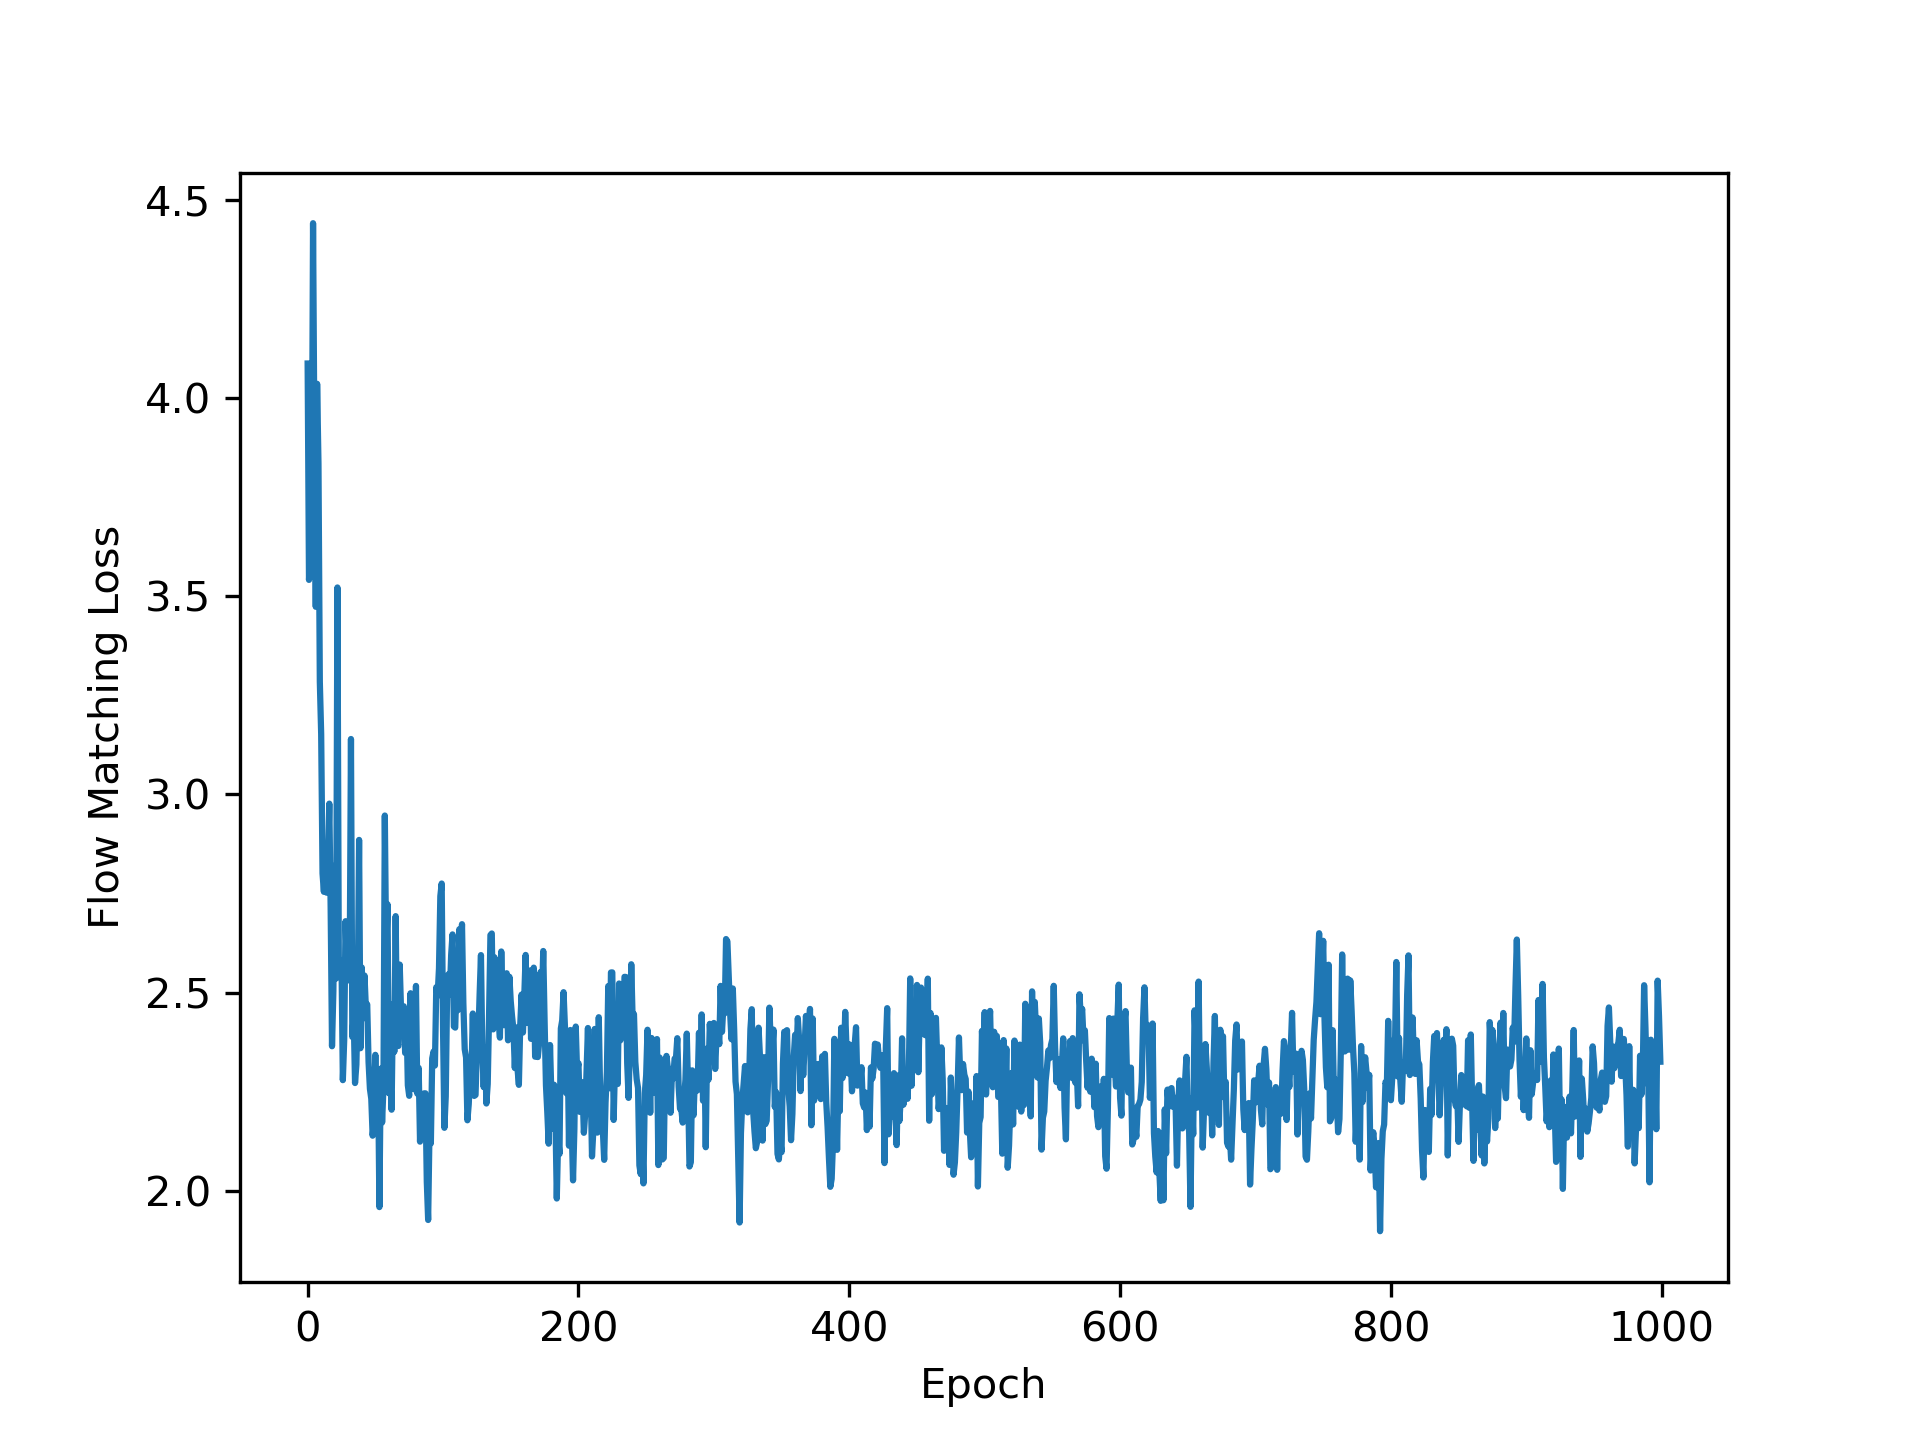
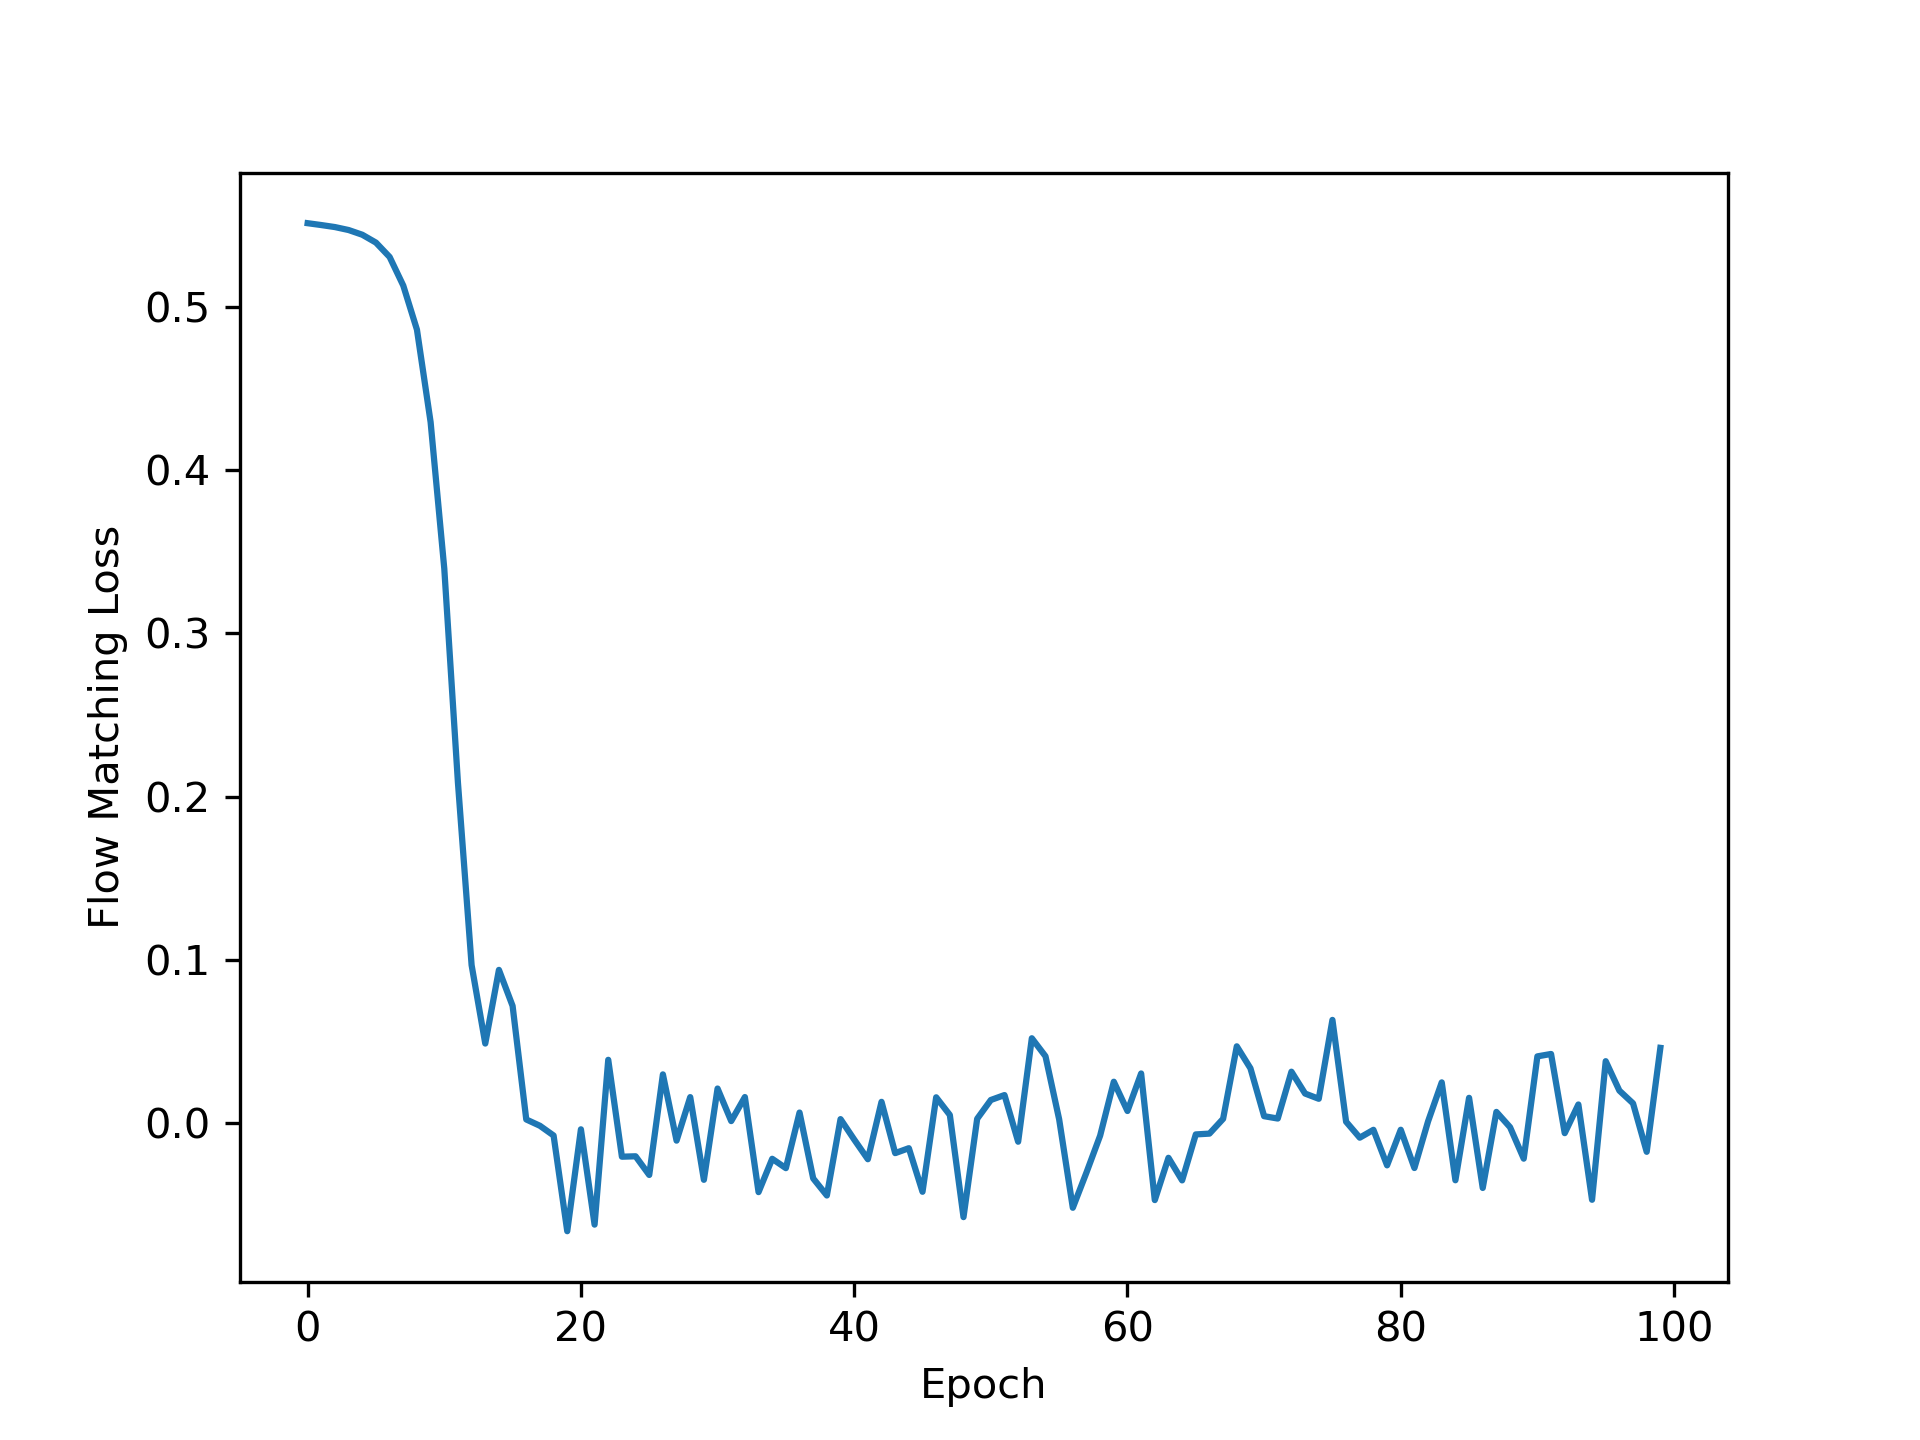
dm-loss modified

diff --git a/dm_test_1d.py b/dm_test_1d.py
@@ -6,8 +6,6 @@ import numpy as np
 import matplotlib.pyplot as plt
 from tqdm import tqdm
 
-from numpy.typing import NDArray
-
 
 ################################################################################
 
@@ -17,11 +15,11 @@ print(f"Device selected: {device}")
 ################################################################################
 
 # Generate the dataset
-n_points = 10_000
+n_points = 600_000
 x_data_0 = 2 * torch.rand(n_points, 1, device=device) - 1
 
 # Prepare the dataloader
-batch_size = 2048
+batch_size = 1024
 dataset = TensorDataset(x_data_0)
 dataloader = DataLoader(dataset, batch_size=batch_size)
 
@@ -30,8 +28,8 @@ net = Net(1, 1, [512] * 5, 10).to(device)
 v_t = VectorField(net)
 
 # configure optimizer
-optimizer = torch.optim.Adam(v_t.parameters(), lr=1e-3)
-n_epochs = 1000
+optimizer = torch.optim.Adam(v_t.parameters(), lr=1e-4)
+n_epochs = 100
 
 losses = np.zeros((n_epochs))
 for epoch in tqdm(range(n_epochs), ncols=88):
@@ -45,8 +43,12 @@ for epoch in tqdm(range(n_epochs), ncols=88):
         loss.backward()
         optimizer.step()
 
-        # Record loss
-        losses[epoch] = loss.item()
+        losses[epoch] += x_data.shape[0] * loss.item()
+
+    # Record loss
+    losses[epoch] /= n_points
+
+    tqdm.write(f"Epoch {epoch + 1}/{n_epochs}, Loss: {losses[epoch]:.4f}")
 
 # Display the learning curve
 plt.plot(np.arange(len(losses)), losses)
@@ -67,8 +69,8 @@ x_data_0 = x_data_0.cpu().numpy()
 x_data_pred = x_data_pred.cpu().numpy()
 
 # Display the generated data
-plt.hist(x_data_0, bins=128, alpha=0.5, label="Data")
-plt.hist(x_data_pred, bins=128, alpha=0.5, label="Generated")
+plt.hist(x_data_0, bins=128, alpha=0.5, label="Data", density=True)
+plt.hist(x_data_pred, bins=128, alpha=0.5, label="Generated", density=True)
 plt.tight_layout()
 plt.legend()
 plt.savefig("outputs/1d_sample_comparison.png", dpi=300)

diff --git a/dm_model_simple.py b/dm_model_simple.py
@@ -69,7 +69,7 @@ class VectorField(nn.Module):
 ####################################################################################################
 
 
-def dm_loss(v: VectorField, x_data: Tensor, x_noise: Tensor, T: float = 100) -> Tensor:
+def dm_loss(v: VectorField, x_data: Tensor, x_noise: Tensor, T: float = 10.0, N: int = 10) -> Tensor:
     """
     Compute the direct-matching loss.
     """
@@ -79,15 +79,11 @@ def dm_loss(v: VectorField, x_data: Tensor, x_noise: Tensor, T: float = 100) -> 
 
     # Time
     t = torch.rand(x_data.shape[0], device=x_data.device)[:, None]
-
-    # Integration variable
     s = T * torch.rand(x_data.shape[0], device=x_data.device)[:, None]
-
-    # Noise
     z = torch.randn(x_data.shape, device=x_data.device)
 
     loss_batch = (1 - t) * torch.sum(v(t, x_data) ** 2, dim=-1) + t * torch.sum(v(t, x_noise) ** 2, dim=-1)
-    loss_batch = loss_batch + 2 * torch.sum(T * (v(t, x_noise + s * z) - v(t, x_data + s * z)) * z, dim=-1)
+    loss_batch += 2 * T * torch.sum((v(t, x_noise + s * z) - v(t, x_data + s * z)) * z, dim=-1)
 
     return torch.mean(loss_batch)
 
